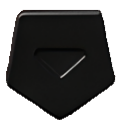
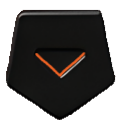
подсветка d-pad: горят только рабочие стрелки (canMove), неактивные затемняются как большие кнопки; обновлены картинки стрелок

Changed region(s): [[0.2705, 0.418, 0.7131, 0.6393]]

diff --git a/src/lib/navMachine.ts b/src/lib/navMachine.ts
@@ -111,12 +111,10 @@ export class NavigationMachine {
   // ── Переходы ────────────────────────────────────────────────────
   /** Нажать → (right) */
   right(): boolean {
-    const node = map[this._current];
-    if (!node) return false;
-    const rightTarget = node.right ?? (OVERRIDE_RIGHT[this._current] ?? this.rightDefaultChild(this._current));
-    if (rightTarget && rightTarget !== 'none') {
+    const target = this.targetFor('right');
+    if (target) {
       this.pushHistory();
-      this._current = rightTarget;
+      this._current = target;
       this.notify();
       return true;
     }
@@ -125,7 +123,7 @@ export class NavigationMachine {
 
   /** Нажать ← (left) */
   left(): boolean {
-    const target = this.prevOf(this._current);
+    const target = this.targetFor('left');
     if (target) {
       this.history.push(this._current);
       this._current = target;
@@ -137,9 +135,9 @@ export class NavigationMachine {
 
   /** Нажать ↑ */
   up(): boolean {
-    const node = map[this._current];
-    if (node?.up !== undefined && node.up !== 'none') {
-      this._current = node.up as NodeId;
+    const target = this.targetFor('up');
+    if (target) {
+      this._current = target;
       this.notify();
       return true;
     }
@@ -148,13 +146,18 @@ export class NavigationMachine {
 
   /** Нажать ↓ */
   down(): boolean {
-    const node = map[this._current];
-    if (node?.down !== undefined && node.down !== 'none') {
-      this._current = node.down as NodeId;
+    const target = this.targetFor('down');
+    if (target) {
+      this._current = target;
       this.notify();
       return true;
     }
     return false;
+  }
+
+  /** Можно ли перейти по направлению dir (не меняя состояние) */
+  canMove(dir: 'up' | 'down' | 'left' | 'right'): boolean {
+    return this.targetFor(dir) !== undefined;
   }
 
   /** Открыть текущий стих */
@@ -188,6 +191,24 @@ export class NavigationMachine {
   // ── Внутренние ─────────────────────────────────────────────────
   private notify(): void {
     for (const l of this.listeners) l(this._current);
+  }
+
+  /** Чистая логика цели перехода (без мутаций состояния) */
+  private targetFor(dir: 'up' | 'down' | 'left' | 'right'): NodeId | undefined {
+    const node = map[this._current];
+    if (dir === 'up') {
+      return (node?.up !== undefined && node.up !== 'none') ? node.up as NodeId : undefined;
+    }
+    if (dir === 'down') {
+      return (node?.down !== undefined && node.down !== 'none') ? node.down as NodeId : undefined;
+    }
+    if (dir === 'left') {
+      return this.prevOf(this._current);
+    }
+    const rightTarget = node?.right !== undefined
+      ? node.right
+      : (OVERRIDE_RIGHT[this._current] ?? this.rightDefaultChild(this._current));
+    return (rightTarget && rightTarget !== 'none') ? rightTarget as NodeId : undefined;
   }
 
   pushHistory(): void {
